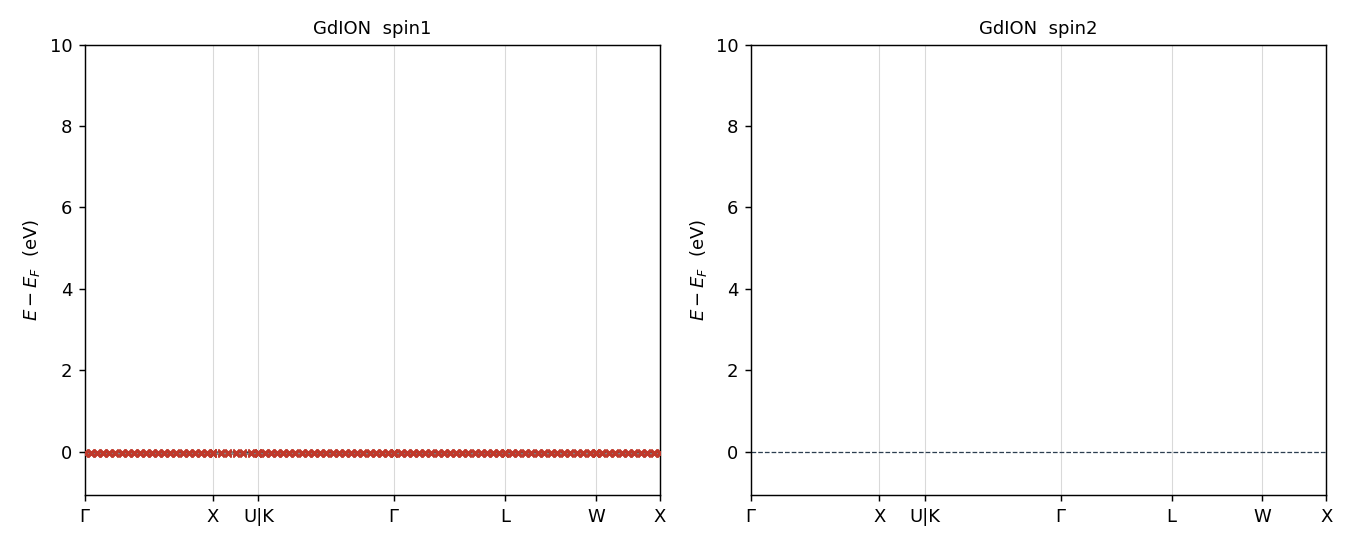
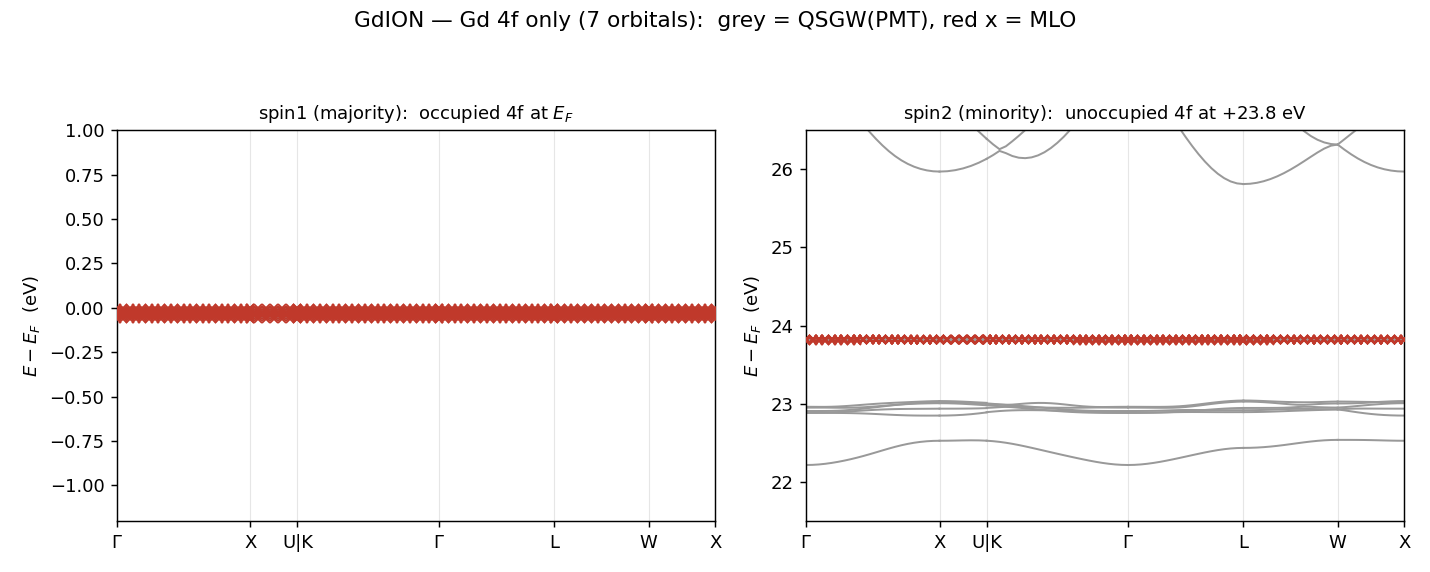
manual/mlo: show the unoccupied 4f in the GdION figure
The automatic range topped out at +10 eV, cutting off the minority unoccupied
4f at +23.8 eV. Redrawn as two panels: occupied (majority, just below E_F) and
unoccupied (minority, +23.8 eV). They are 24 eV apart and do not fit on one
vertical axis.

Caption extended:
  - both sets of red x sit right on the grey lines (rms 0.19 / 1.85 meV)
  - the grey lines at +22.2..+23.0 eV below the minority 4f are a different
    manifold, which the model does not take, hence no red x there
  - this huge gap is also why Delta does nothing for a 4f model: the floor
    lands at E_F+23.9 eV, above almost every 4f level, so theta -> 1

🤖 Generated with [Claude Code](https://claude.com/claude-code)

diff --git a/manual/mlo.md b/manual/mlo.md
@@ -459,11 +459,25 @@ $\Delta$ と $w$ を両方向に振っても散らばりは既定値より良く
 ---
 
 ![GdION](mlo/GdION.png)
+
+GdION(Gd 単イオン、QSGW)— **占有と非占有の 4f を別々の窓で描いた**。
+majority の 7 本は $E_F$ 直下($-0.06$ eV)、minority の 7 本は
+**$+23.8$ eV** と $24$ eV 近く離れており、同じ縦軸には収まらない。
+どちらも赤 × が灰線にそのまま乗る(rms 0.19 / 1.85 meV、上の表)。
+minority の下に見える $+22.2$〜$+23.0$ eV の灰線は 4f ではない帯で、
+模型が取っていないので赤 × が無い。
+
+**この巨大なギャップが、4f 模型で $\Delta$ が効かない理由**でもある。
+床 $\varepsilon_{\rm CBM}+\Delta$ は $E_F+23.9$ eV に置かれ、4f 準位の
+ほとんど全部より上に来るので $\theta\approx1$、素の射影に戻る。
+
+---
+
 ![GdCo5](mlo/GdCo5.png)
 ![SmP](mlo/SmP.png)
 
-4f 7 軌道だけの模型 3 種。GdION は Gd 単イオン、GdCo5 は Co 5 サイトを空にして
-Gd 4f だけ、SmP は P を空にして Sm 4f だけ。準位の重なりで測った結果は上の表。
+GdCo5 は Co 5 サイトを空にして Gd 4f だけ、SmP は P を空にして Sm 4f だけ。
+準位の重なりで測った結果は上の表。
 
 ---
 
